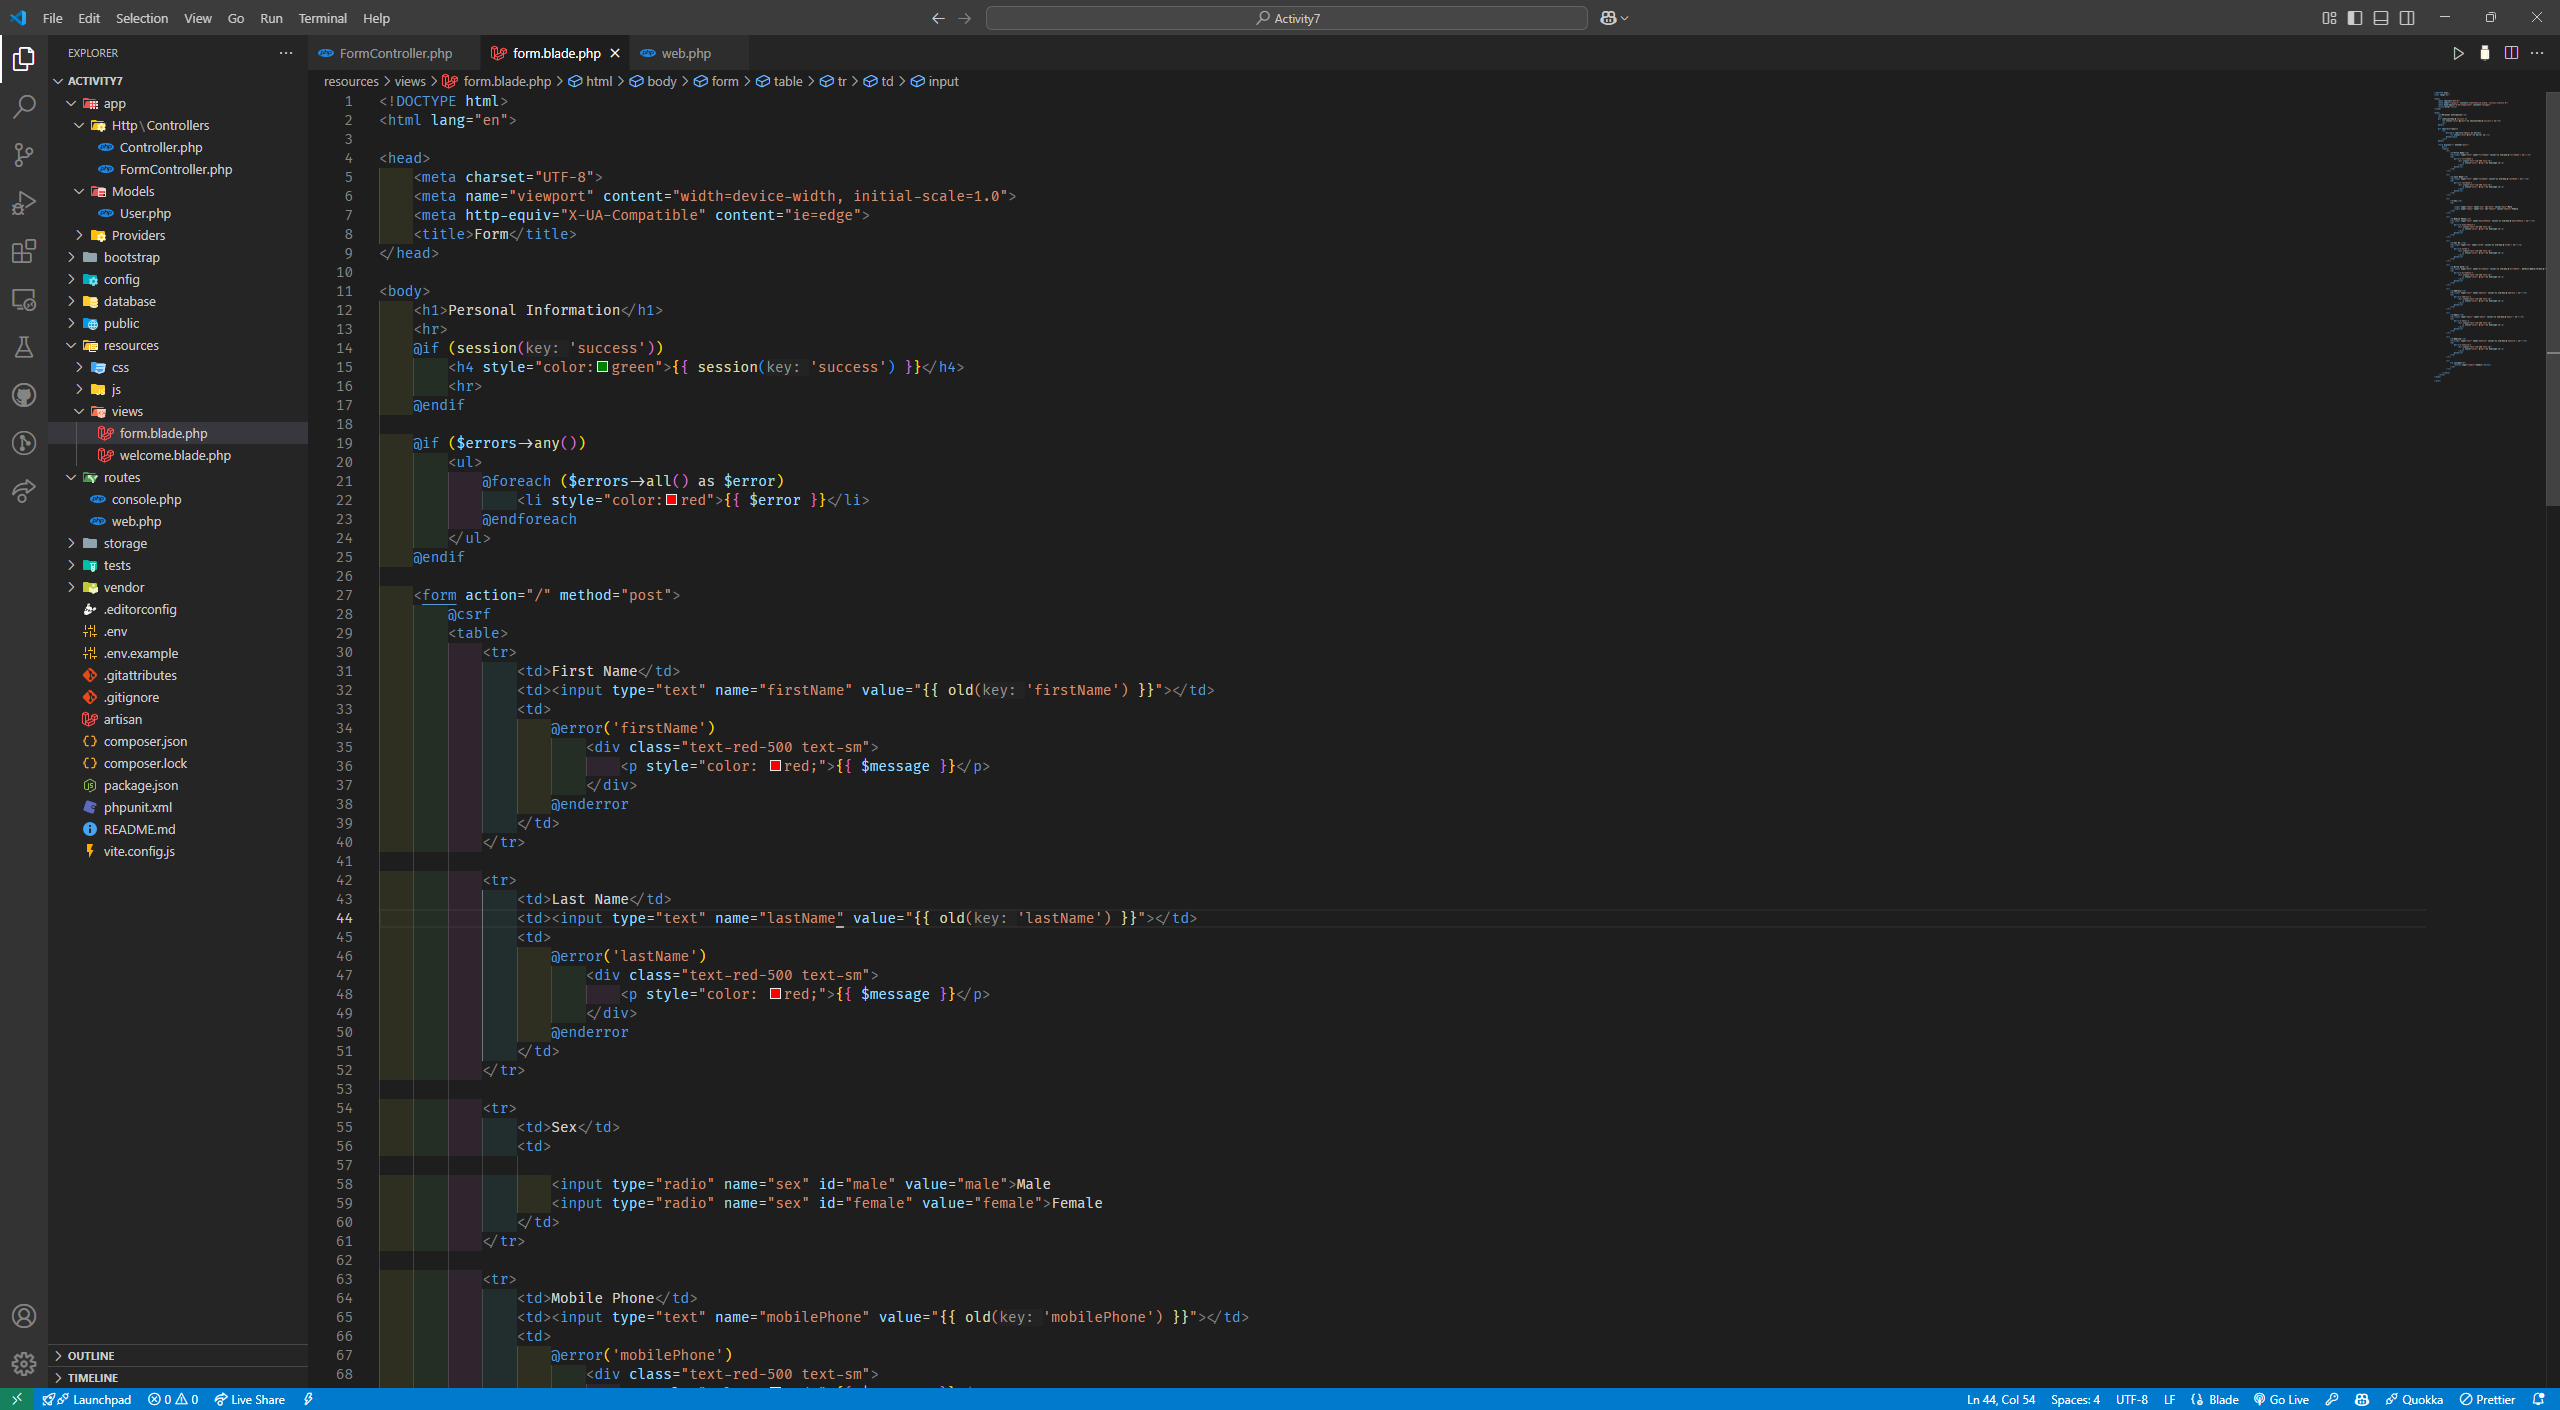
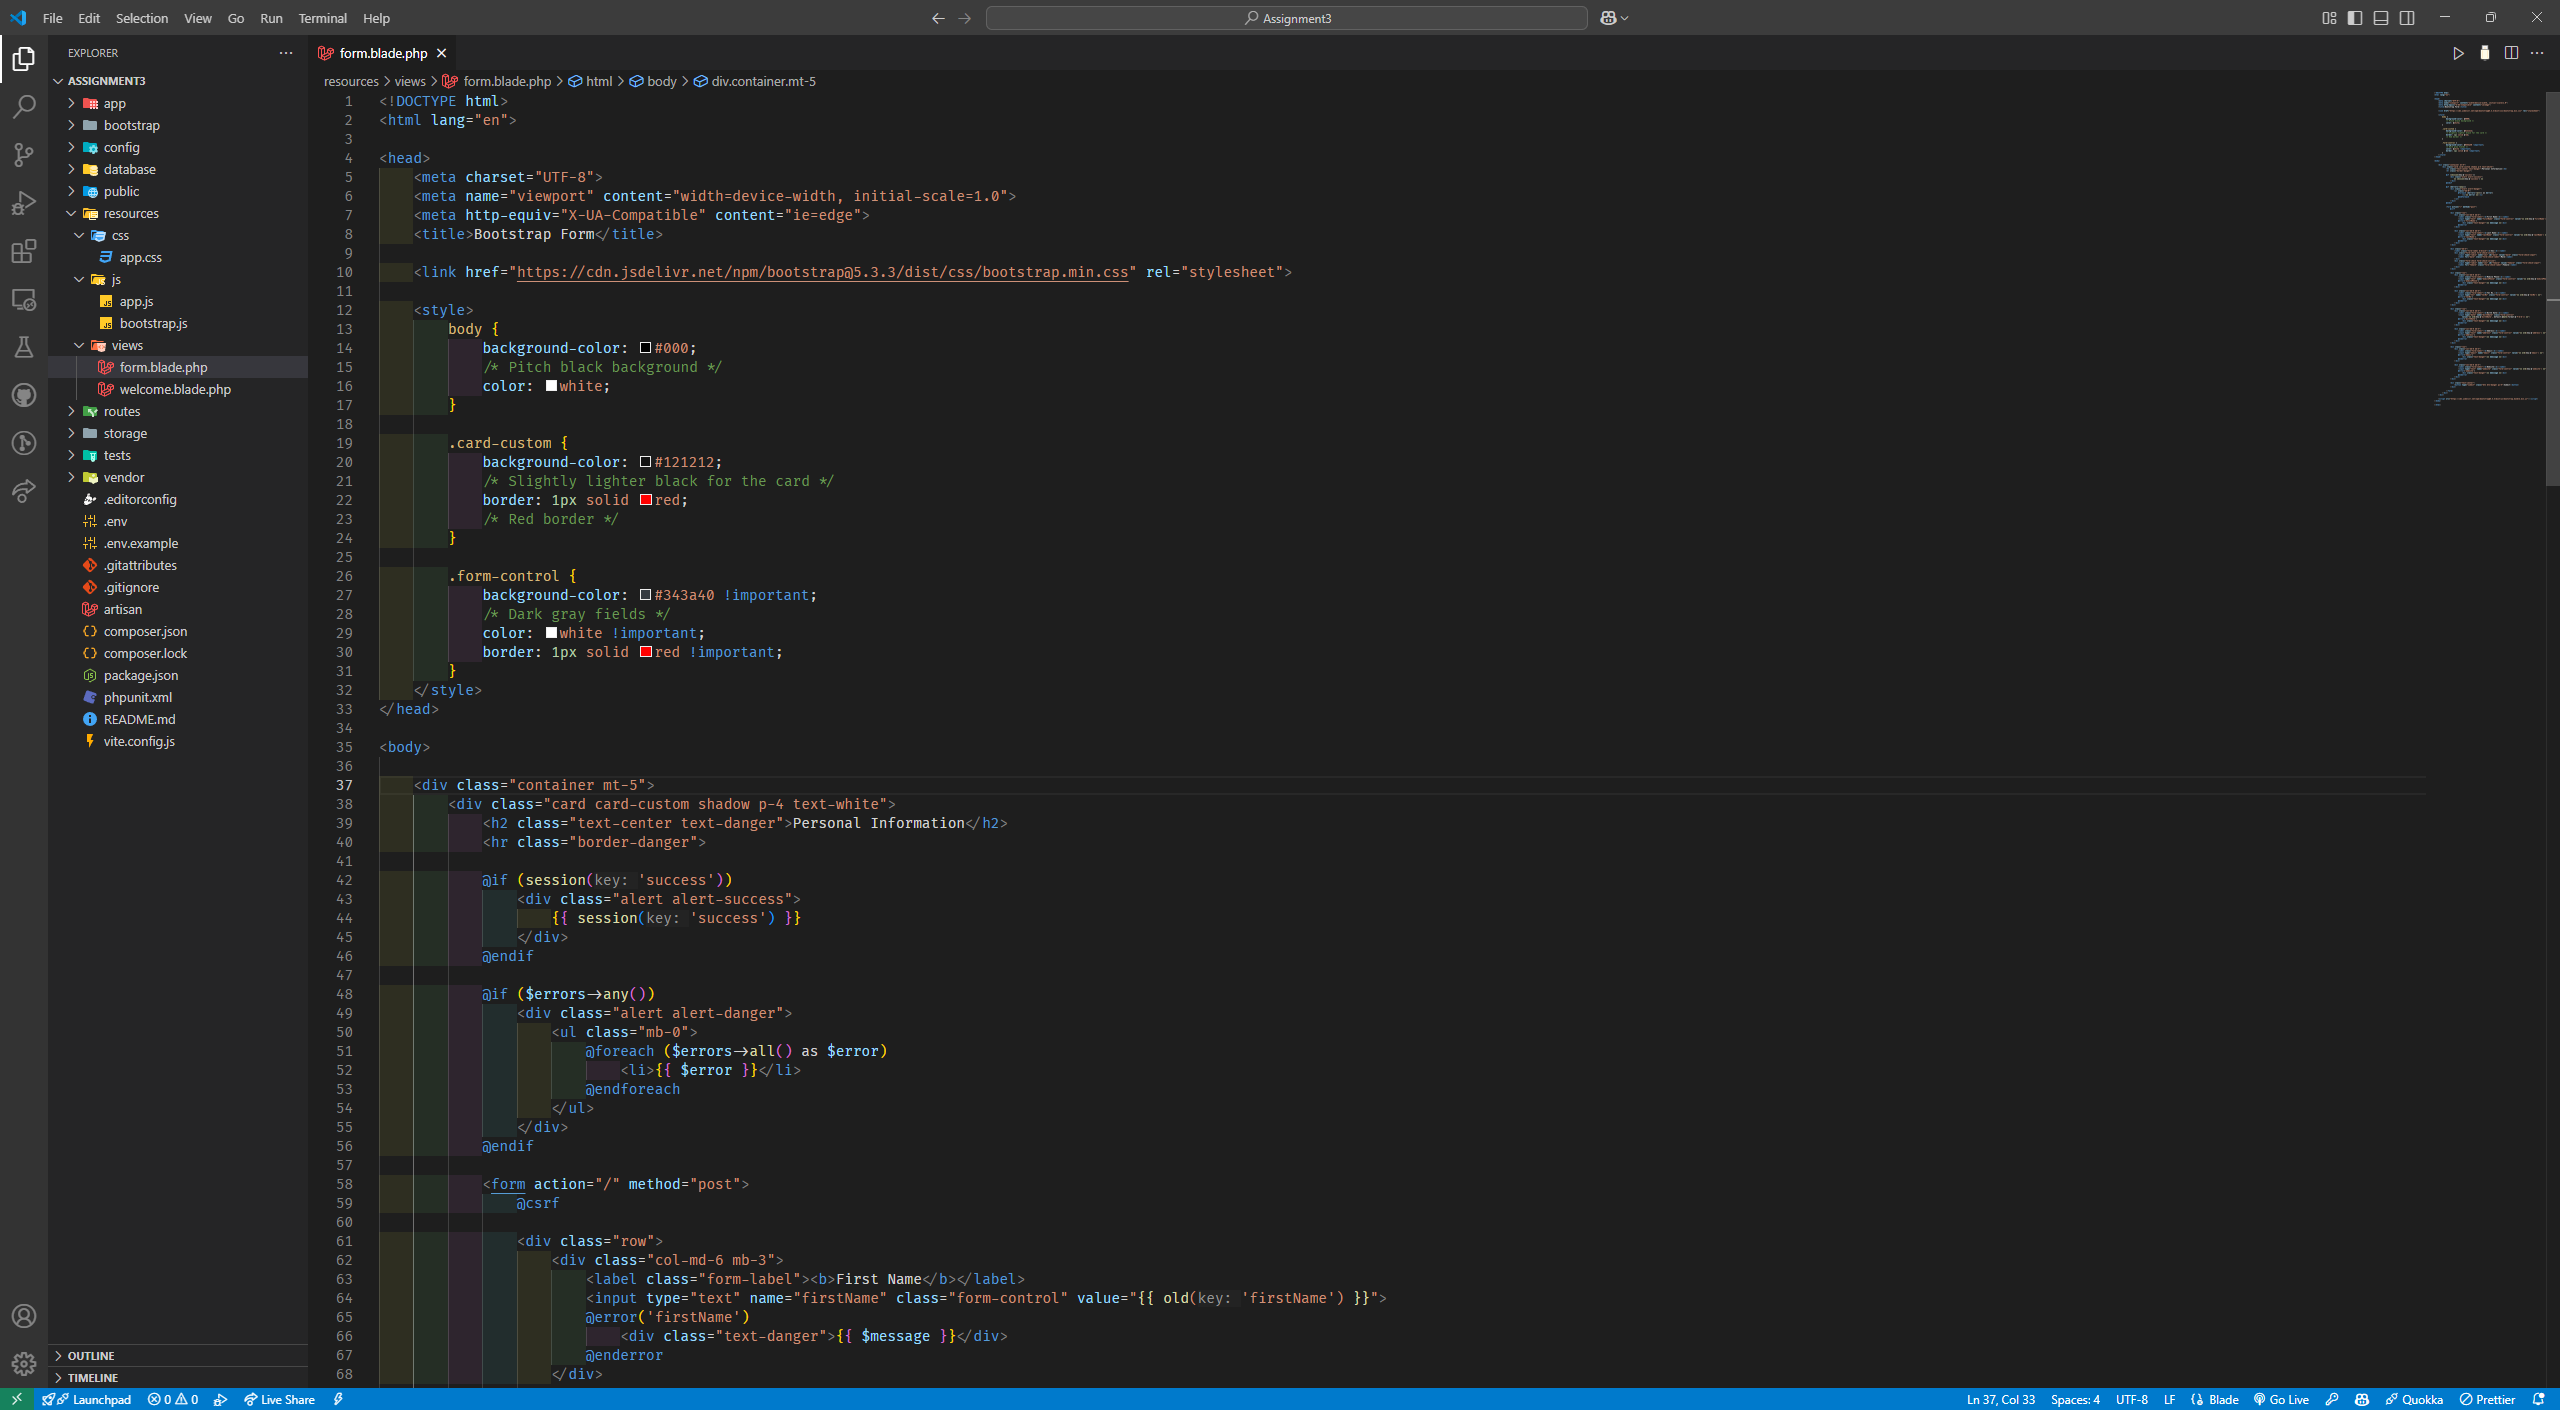
Added Bootstrap

diff --git a/Assignment3/barrientos_renz_assignment3/resources/views/form.blade.php b/Assignment3/barrientos_renz_assignment3/resources/views/form.blade.php
@@ -5,141 +5,153 @@
     <meta charset="UTF-8">
     <meta name="viewport" content="width=device-width, initial-scale=1.0">
     <meta http-equiv="X-UA-Compatible" content="ie=edge">
-    <title>Form</title>
+    <title>Bootstrap Form</title>
+
+    <link href="https://cdn.jsdelivr.net/npm/bootstrap@5.3.3/dist/css/bootstrap.min.css" rel="stylesheet">
+
+    <style>
+        body {
+            background-color: #000;
+            /* Pitch black background */
+            color: white;
+        }
+
+        .card-custom {
+            background-color: #121212;
+            /* Slightly lighter black for the card */
+            border: 1px solid red;
+            /* Red border */
+        }
+
+        .form-control {
+            background-color: #343a40 !important;
+            /* Dark gray fields */
+            color: white !important;
+            border: 1px solid red !important;
+        }
+    </style>
 </head>
 
 <body>
-    <h1>Personal Information</h1>
-    <hr>
-    @if (session('success'))
-        <h4 style="color:green">{{ session('success') }}</h4>
-        <hr>
-    @endif
 
-    @if ($errors->any())
-        <ul>
-            @foreach ($errors->all() as $error)
-                <li style="color:red">{{ $error }}</li>
-            @endforeach
-        </ul>
-    @endif
+    <div class="container mt-5">
+        <div class="card card-custom shadow p-4 text-white">
+            <h2 class="text-center text-danger">Personal Information</h2>
+            <hr class="border-danger">
 
-    <form action="/" method="post">
-        @csrf
-        <table>
-            <tr>
-                <td>First Name</td>
-                <td><input type="text" name="firstName" value="{{ old('firstName') }}"></td>
-                <td>
-                    @error('firstName')
-                        <div class="text-red-500 text-sm">
-                            <p style="color: red;">{{ $message }}</p>
-                        </div>
-                    @enderror
-                </td>
-            </tr>
+            @if (session('success'))
+                <div class="alert alert-success">
+                    {{ session('success') }}
+                </div>
+            @endif
 
-            <tr>
-                <td>Last Name</td>
-                <td><input type="text" name="lastName" value="{{ old('lastName') }}"></td>
-                <td>
-                    @error('lastName')
-                        <div class="text-red-500 text-sm">
-                            <p style="color: red;">{{ $message }}</p>
-                        </div>
-                    @enderror
-                </td>
-            </tr>
+            @if ($errors->any())
+                <div class="alert alert-danger">
+                    <ul class="mb-0">
+                        @foreach ($errors->all() as $error)
+                            <li>{{ $error }}</li>
+                        @endforeach
+                    </ul>
+                </div>
+            @endif
 
-            <tr>
-                <td>Sex</td>
-                <td>
+            <form action="/" method="post">
+                @csrf
 
-                    <input type="radio" name="sex" id="male" value="male">Male
-                    <input type="radio" name="sex" id="female" value="female">Female
-                </td>
-            </tr>
+                <div class="row">
+                    <div class="col-md-6 mb-3">
+                        <label class="form-label"><b>First Name</b></label>
+                        <input type="text" name="firstName" class="form-control" value="{{ old('firstName') }}">
+                        @error('firstName')
+                            <div class="text-danger">{{ $message }}</div>
+                        @enderror
+                    </div>
 
-            <tr>
-                <td>Mobile Phone</td>
-                <td><input type="text" name="mobilePhone" value="{{ old('mobilePhone') }}"></td>
-                <td>
-                    @error('mobilePhone')
-                        <div class="text-red-500 text-sm">
-                            <p style="color: red;">{{ $message }}</p>
-                        </div>
-                    @enderror
-                </td>
-            </tr>
+                    <div class="col-md-6 mb-3">
+                        <label class="form-label"><b>Last Name</b></label>
+                        <input type="text" name="lastName" class="form-control" value="{{ old('lastName') }}">
+                        @error('lastName')
+                            <div class="text-danger">{{ $message }}</div>
+                        @enderror
+                    </div>
+                </div>
 
-            <tr>
-                <td>Tel No.</td>
-                <td><input type="tel" name="telNo" value="{{ old('telNo') }}"></td>
-                <td>
-                    @error('telNo')
-                        <div class="text-red-500 text-sm">
-                            <p style="color: red;">{{ $message }}</p>
-                        </div>
-                    @enderror
-                </td>
-            </tr>
+                <div class="mb-3">
+                    <label class="form-label d-block"><b>Sex</b></label>
+                    <div class="form-check form-check-inline">
+                        <input type="radio" name="sex" id="male" value="male" class="form-check-input">
+                        <label for="male" class="form-check-label">Male</label>
+                    </div>
+                    <div class="form-check form-check-inline">
+                        <input type="radio" name="sex" id="female" value="female" class="form-check-input">
+                        <label for="female" class="form-check-label">Female</label>
+                    </div>
+                </div>
 
-            <tr>
-                <td>Birth date</td>
-                <td><input type="date" name="birthDate" value="{{ old('birthDate', date('Y-m-d')) }}"></td>
-                <td>
-                    @error('birthDate')
-                        <div class="text-red-500 text-sm">
-                            <p style="color: red;">{{ $message }}</p>
-                        </div>
-                    @enderror
-                </td>
-            </tr>
+                <div class="row">
+                    <div class="col-md-6 mb-3">
+                        <label class="form-label"><b>Mobile Phone</b></label>
+                        <input type="text" name="mobilePhone" class="form-control" value="{{ old('mobilePhone') }}">
+                        @error('mobilePhone')
+                            <div class="text-danger">{{ $message }}</div>
+                        @enderror
+                    </div>
 
-            <tr>
-                <td>Address</td>
-                <td><input type="text" name="address" value="{{ old('address') }}"></td>
-                <td>
-                    @error('address')
-                        <div class="text-red-500 text-sm">
-                            <p style="color: red;">{{ $message }}</p>
-                        </div>
-                    @enderror
-                </td>
-            </tr>
+                    <div class="col-md-6 mb-3">
+                        <label class="form-label"><b>Tel No.</b></label>
+                        <input type="tel" name="telNo" class="form-control" value="{{ old('telNo') }}">
+                        @error('telNo')
+                            <div class="text-danger">{{ $message }}</div>
+                        @enderror
+                    </div>
+                </div>
 
-            <tr>
-                <td>Email</td>
-                <td><input type="email" name="email" value="{{ old('email') }}"></td>
-                <td>
-                    @error('email')
-                        <div class="text-red-500 text-sm">
-                            <p style="color: red;">{{ $message }}</p>
-                        </div>
-                    @enderror
-                </td>
-            </tr>
+                <div class="row">
+                    <div class="col-md-6 mb-3">
+                        <label class="form-label"><b>Birth Date</b></label>
+                        <input type="date" name="birthDate" class="form-control"
+                            value="{{ old('birthDate', date('Y-m-d')) }}">
+                        @error('birthDate')
+                            <div class="text-danger">{{ $message }}</div>
+                        @enderror
+                    </div>
 
-            <tr>
-                <td>Website</td>
-                <td><input type="text" name="website" value="{{ old('website') }}"></td>
-                <td>
-                    @error('website')
-                        <div class="text-red-500 text-sm">
-                            <p style="color: red;">{{ $message }}</p>
-                        </div>
-                    @enderror
-                </td>
-            </tr>
+                    <div class="col-md-6 mb-3">
+                        <label class="form-label"><b>Address</b></label>
+                        <input type="text" name="address" class="form-control" value="{{ old('address') }}">
+                        @error('address')
+                            <div class="text-danger">{{ $message }}</div>
+                        @enderror
+                    </div>
+                </div>
 
-            <tr>
-                <td colspan="3">
-                    <button type="submit">Submit</button>
-                </td>
-            </tr>
+                <div class="row">
+                    <div class="col-md-6 mb-3">
+                        <label class="form-label"><b>Email</b></label>
+                        <input type="email" name="email" class="form-control" value="{{ old('email') }}">
+                        @error('email')
+                            <div class="text-danger">{{ $message }}</div>
+                        @enderror
+                    </div>
 
-        </table>
-    </form>
+                    <div class="col-md-6 mb-3">
+                        <label class="form-label"><b>Website</b></label>
+                        <input type="text" name="website" class="form-control" value="{{ old('website') }}">
+                        @error('website')
+                            <div class="text-danger">{{ $message }}</div>
+                        @enderror
+                    </div>
+                </div>
+
+                <div class="text-center">
+                    <button type="submit" class="btn btn-danger px-5">Submit</button>
+                </div>
+
+            </form>
+        </div>
+    </div>
+
+    <script src="https://cdn.jsdelivr.net/npm/bootstrap@5.3.3/dist/js/bootstrap.bundle.min.js"></script>
 </body>
 
 </html>
